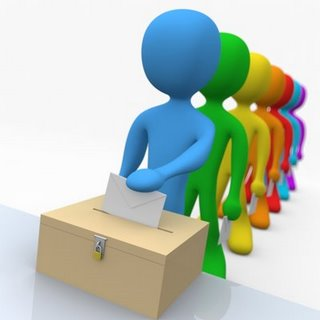
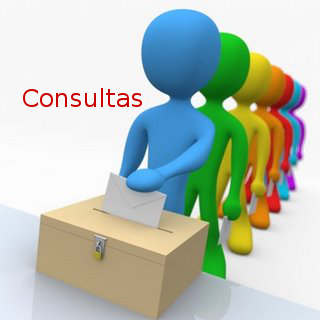
Add vote!

Changed region(s): [[0.0625, 0.25, 0.4688, 0.3438]]

diff --git a/mod/custom_index_widgets/vendors/swfobject.js b/mod/custom_index_widgets/vendors/swfobject.js
@@ -13,7 +13,7 @@ $(document).ready(function() {
     }
 
     if($('#media11475')){
-        $('#media11475').html('<p><a href="http://www.hellohelp.net/hellohelp/fm_userlogin.php?cust_id=1584&amp;cc=3569&amp;langid=3275&amp;referer=http://www.hellohelp.net/hellohelp/main.php?custid=1584&amp;dni=&amp;un=&amp;email=&amp;ccs=1" target="_blank" title="Chat de Informaci&oacute;n en l&iacute;nea" id="chat_img"><img src="https://www.ipn.club/file/download/11465" border="0" alt="image" width="298" height="169" style="vertical-align: middle; border: 0px;" /></a></p><p><a href="https://www.ipn.club/polls/list/administrador"><img src="https://www.ipn.club/mod/img/votaciones.jpg" border="0" alt="image" width="169" height="169" style="vertical-align: middle; border: 0px;" /></a></p>');
+        $('#media11475').html('<a href="http://www.hellohelp.net/hellohelp/fm_userlogin.php?cust_id=1584&amp;cc=3569&amp;langid=3275&amp;referer=http://www.hellohelp.net/hellohelp/main.php?custid=1584&amp;dni=&amp;un=&amp;email=&amp;ccs=1" target="_blank" title="Chat de Informaci&oacute;n en l&iacute;nea" id="chat_img"><img src="https://www.ipn.club/file/download/11465" border="0" alt="image" width="298" height="169" style="vertical-align: middle; border: 0px;" /></a><a href="https://www.ipn.club/polls/list/administrador" title="Participa en las votaciones"><img src="https://www.ipn.club/mod/img/votaciones.jpg" border="0" alt="image" width="169" height="169" style="vertical-align: middle; border: 0px;" /></a>');
     }
 
     $('#chat_img').click(function(){

diff --git a/mod/custom_index_widgets/vendors/swfobject/swfobject.js b/mod/custom_index_widgets/vendors/swfobject/swfobject.js
@@ -13,7 +13,7 @@ $( document ).ready(function() {
     }
 
     if($('#media11475')){
-        $('#media11475').html('<p><a href="http://www.hellohelp.net/hellohelp/fm_userlogin.php?cust_id=1584&amp;cc=3569&amp;langid=3275&amp;referer=http://www.hellohelp.net/hellohelp/main.php?custid=1584&amp;dni=&amp;un=&amp;email=&amp;ccs=1" target="_blank" title="Chat de Informaci&oacute;n en l&iacute;nea" id="chat_img"><img src="https://www.ipn.club/file/download/11465" border="0" alt="image" width="298" height="169" style="vertical-align: middle; border: 0px;" /></a></p>');
+        $('#media11475').html('<a href="http://www.hellohelp.net/hellohelp/fm_userlogin.php?cust_id=1584&amp;cc=3569&amp;langid=3275&amp;referer=http://www.hellohelp.net/hellohelp/main.php?custid=1584&amp;dni=&amp;un=&amp;email=&amp;ccs=1" target="_blank" title="Chat de Informaci&oacute;n en l&iacute;nea" id="chat_img"><img src="https://www.ipn.club/file/download/11465" border="0" alt="image" width="298" height="169" style="vertical-align: middle; border: 0px;" /></a><a href="https://www.ipn.club/polls/list/administrador" title="Participa en las votaciones"><img src="https://www.ipn.club/mod/img/votaciones.jpg" border="0" alt="image" width="169" height="169" style="vertical-align: middle; border: 0px;" /></a>');
     }
 
     $('#chat_img').click(function(){
